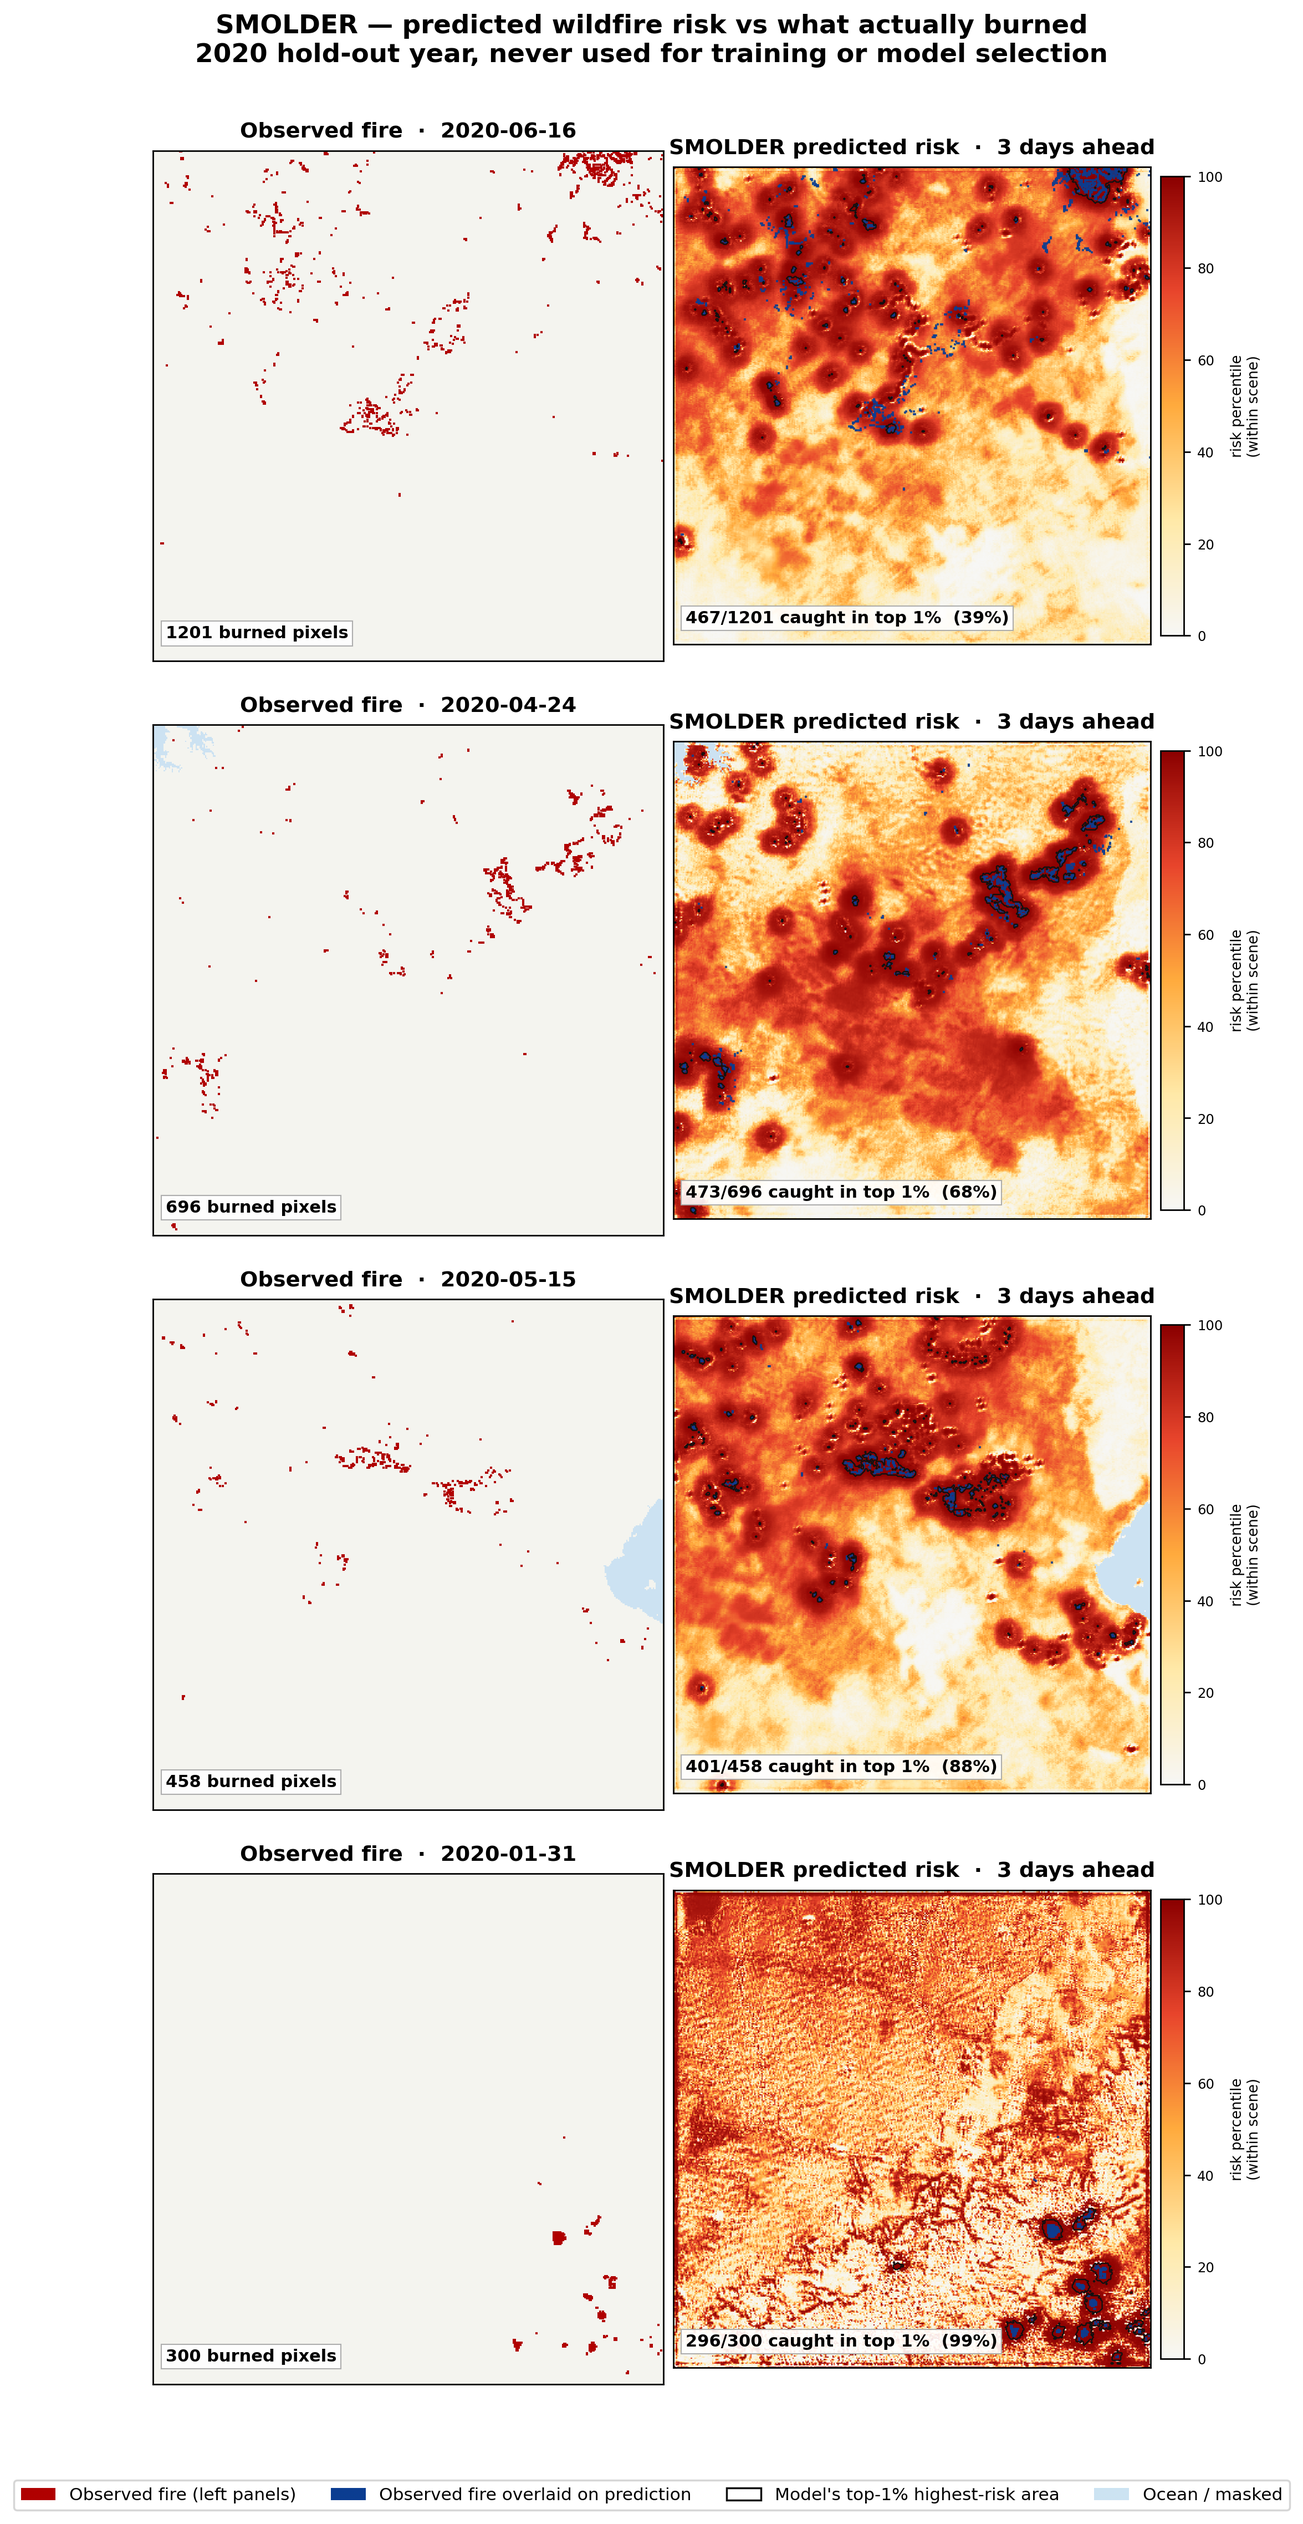
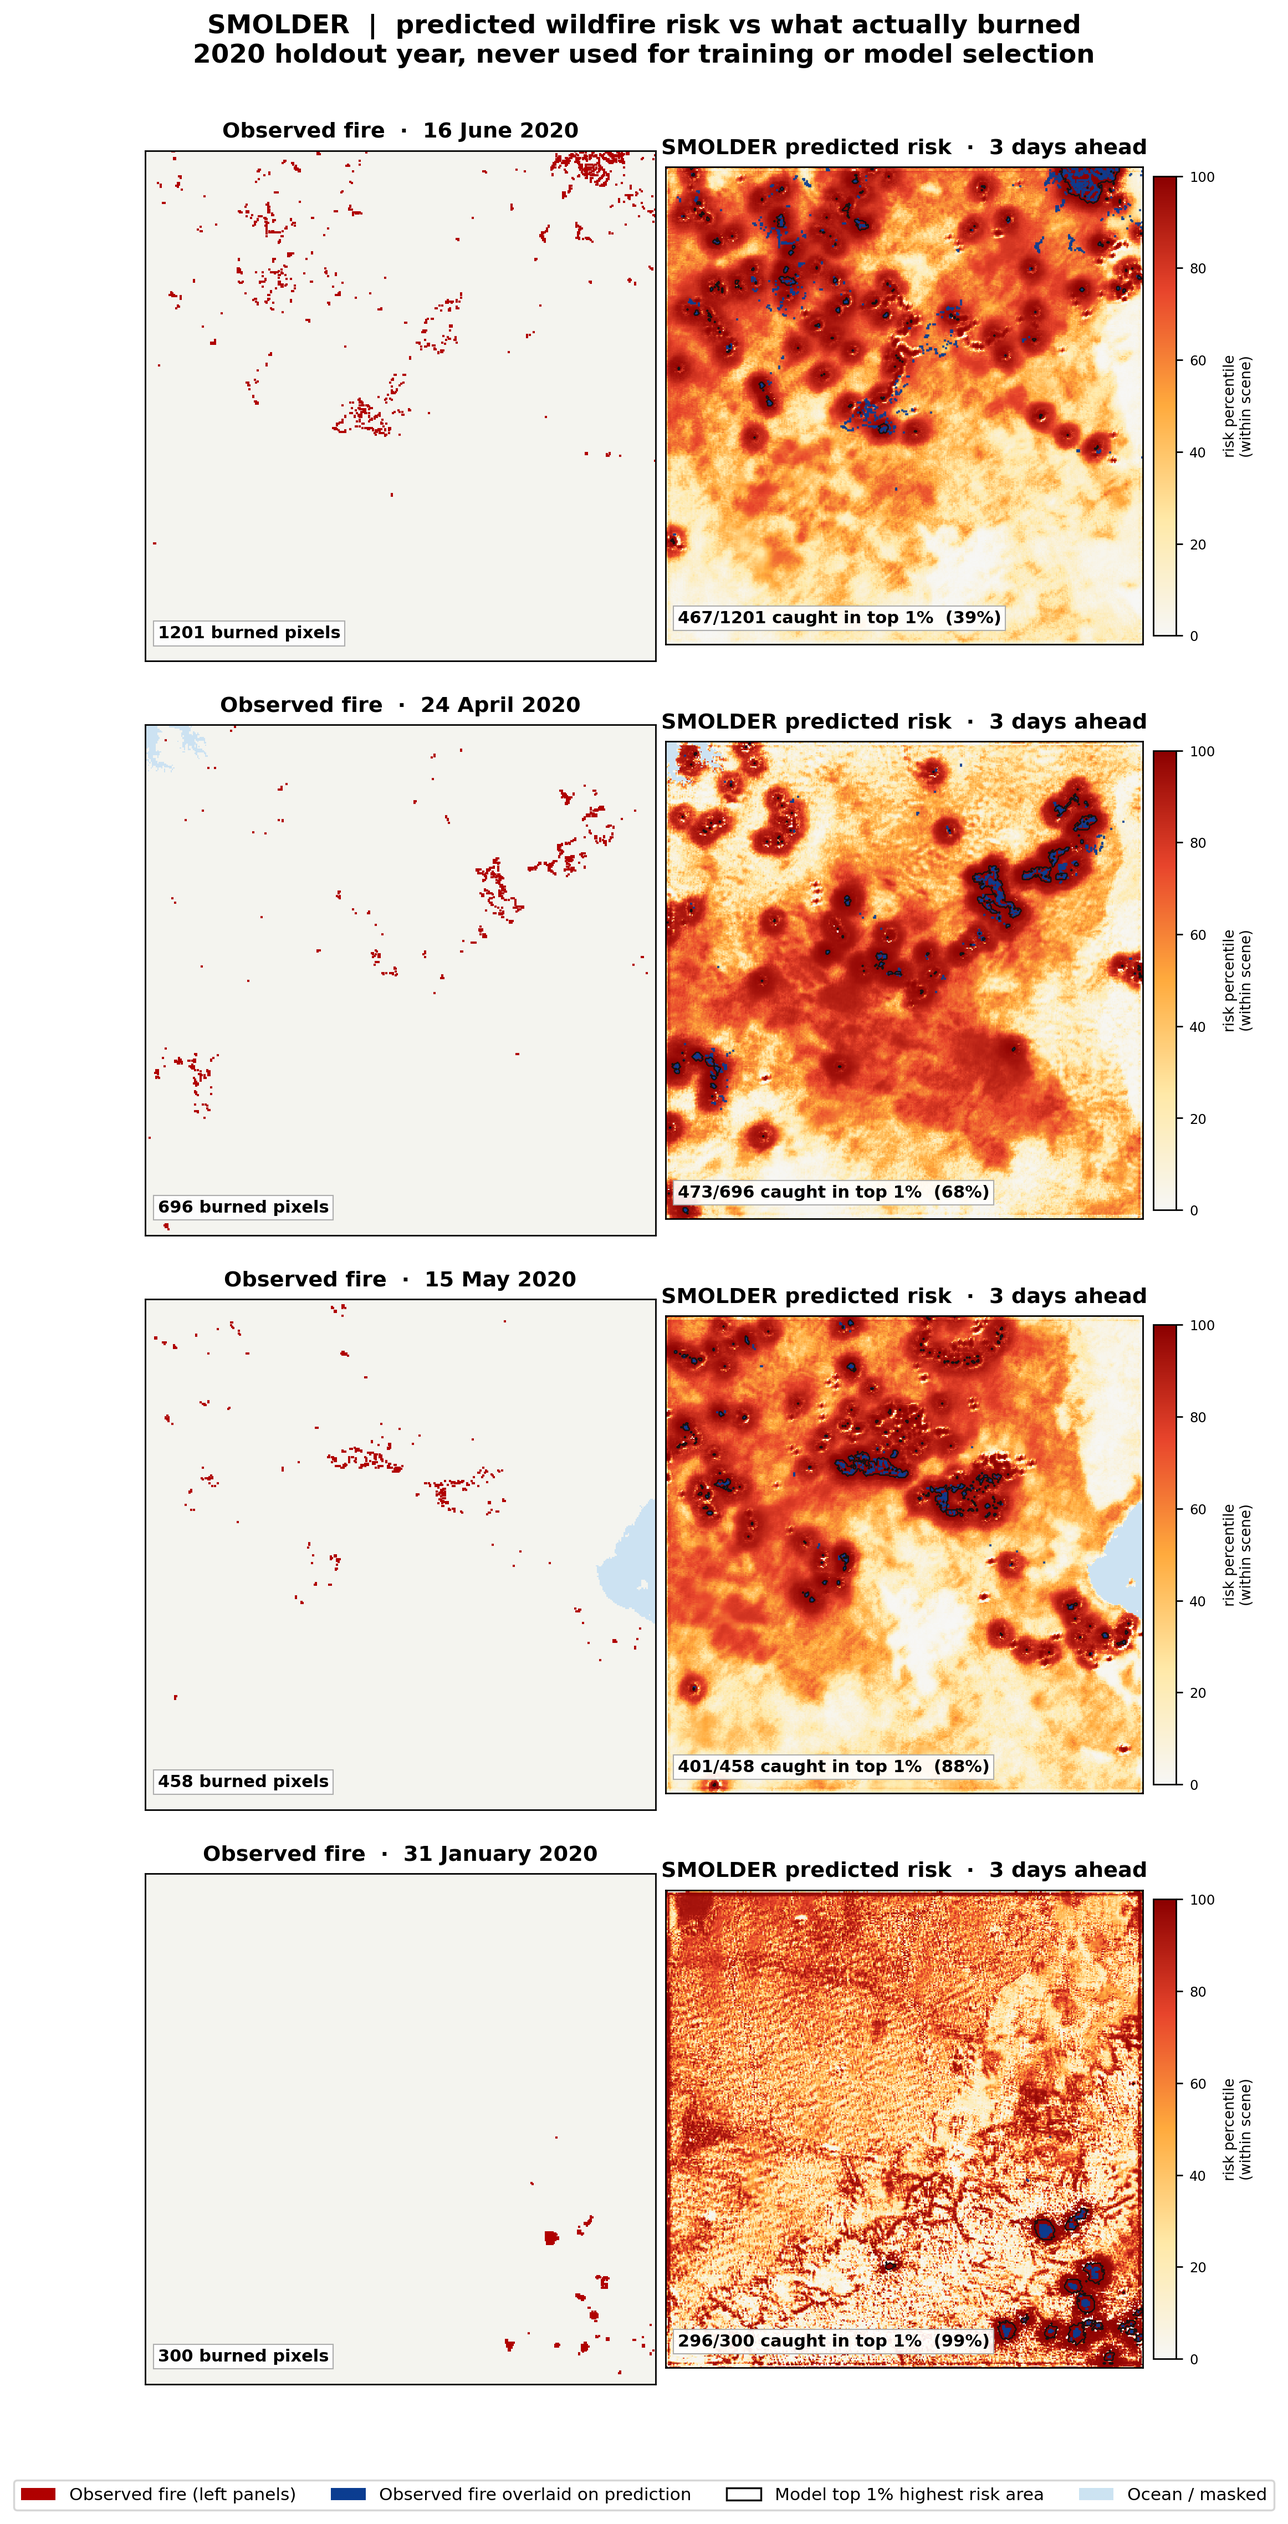
Replace progression chart with a direct model vs XGBoost comparison
- New headline figure: pooled AUC PR (0.4485 vs 0.0611, 7.3x) plus a capture
  vs alert budget curve, both on the same 1500 patches so the comparison is
  like for like.
- Removes the multi step progression chart, which told a development story
  rather than a result.
- All dash characters stripped from rendered figure text; dates now render as
  '16 June 2020' rather than an ISO string.
- Fixed three text collisions: a bracket crossing the XGBoost bar, a label
  sitting on its own reference line, and an annotation clipped outside the
  axes onto the x label.

diff --git a/figures/make_comparison_figure.py b/figures/make_comparison_figure.py
@@ -1,0 +1,78 @@
+"""SMOLDER vs XGBoost on next 3 day wildfire risk, 2020 hold out year.
+
+Both numbers are pooled over the same 1500 patches / 188.6M land pixels, so the
+comparison is like for like. The XGBoost baseline is not a strawman: it carries
+21 engineered features including every one that passed an independent feature
+gate (lightning climatology, terrain, fuel age, downwind alignment).
+
+No dash characters anywhere in the rendered text, and every label is placed
+clear of the plotted lines.
+"""
+import matplotlib
+matplotlib.use("Agg")
+import matplotlib.pyplot as plt
+import numpy as np
+
+SM = "#1a6faa"; XG = "#c94f4f"; INK = "#1a202c"
+
+# pooled 2020 hold out test, n=1500 patches, 188.6M land px, base rate 0.175%
+KS      = np.array([0.01, 0.1, 0.2, 0.5, 1.0, 2.0, 5.0, 10.0])
+TPR_ALL = np.array([0.101, 0.352, 0.430, 0.515, 0.567, 0.610, 0.660, 0.702])
+LIFT    = np.array([1006.0, 352.7, 214.7, 103.0, 56.7, 30.5, 13.2, 7.0])
+
+fig, (axA, axB) = plt.subplots(1, 2, figsize=(13.2, 5.3),
+                               gridspec_kw={"width_ratios": [0.72, 1]})
+
+# ---------------------------------------------------------------- panel A
+names = ["SMOLDER", "XGBoost\n(21 features)"]
+vals  = [0.4485, 0.0611]
+bars = axA.bar([0, 1], vals, color=[SM, XG], edgecolor="black", lw=0.8, width=0.55)
+for x, v in zip([0, 1], vals):
+    axA.text(x, v + 0.013, f"{v:.4f}", ha="center", fontsize=13, fontweight="bold")
+axA.set_xticks([0, 1]); axA.set_xticklabels(names, fontsize=11)
+axA.set_ylabel("Average Precision (AUC PR)", fontsize=11.5, fontweight="bold")
+axA.set_ylim(0, 0.62); axA.set_xlim(-0.6, 1.6)
+axA.grid(axis="y", alpha=0.25); axA.set_axisbelow(True)
+# Comparison bracket drawn ABOVE both bars so it crosses nothing. The base
+# rate line is omitted here: at 0.00175 on a 0 to 0.62 axis it is
+# indistinguishable from the axis and only invites overlap. It is stated in
+# the caption and drawn properly in panel B instead.
+axA.annotate("", xy=(0, 0.545), xytext=(1, 0.545),
+             arrowprops=dict(arrowstyle="<->", lw=1.7, color="#333"))
+axA.text(0.5, 0.562, "7.3x better", ha="center", va="bottom", fontsize=12.5,
+         fontweight="bold", color="#333")
+axA.set_title("Overall skill", fontsize=12, fontweight="bold", pad=9)
+
+# ---------------------------------------------------------------- panel B
+axB.plot(KS, 100 * TPR_ALL, "o-", color=SM, lw=2.4, ms=7, label="SMOLDER", zorder=5)
+axB.set_xscale("log")
+axB.set_xlabel("Share of the map flagged as high risk (%)", fontsize=11)
+axB.set_ylabel("Fire pixels captured (%)", fontsize=11.5, fontweight="bold")
+axB.set_ylim(0, 82); axB.set_xlim(0.008, 13)
+axB.grid(alpha=0.25, which="both"); axB.set_axisbelow(True)
+axB.set_xticks([0.01, 0.1, 1, 10]); axB.set_xticklabels(["0.01", "0.1", "1", "10"])
+
+# lift callouts placed BELOW the curve so they never sit on the line
+for k, t, l in ((0.5, 0.515, 103.0), (2.0, 0.610, 30.5), (10.0, 0.702, 7.0)):
+    axB.annotate(f"{l:.0f}x", xy=(k, 100 * t), xytext=(k, 100 * t - 13),
+                 fontsize=9.5, fontweight="bold", color=SM, ha="center",
+                 arrowprops=dict(arrowstyle="-", lw=0.9, color=SM, alpha=0.6))
+axB.text(0.055, 68, "labels show enrichment\nover the base rate",
+         fontsize=8.6, color=SM, style="italic", linespacing=1.4)
+
+axB.axhline(0.175, color="#555", ls=":", lw=1.4)
+axB.text(11.5, 2.6, "random", fontsize=8.6, color="#555", ha="right", style="italic")
+axB.set_title("How much fire is caught for a given alert budget",
+              fontsize=12, fontweight="bold", pad=9)
+axB.legend(fontsize=10, loc="upper left", frameon=True)
+
+fig.suptitle("Next 3 day wildfire risk over Australia   |   2020 hold out year, "
+             "never used for training or model selection",
+             fontsize=12.8, fontweight="bold", y=1.005)
+fig.text(0.5, -0.045,
+         "Pooled over 1500 patches and 188.6 million land pixels. Flagging just 0.5% of the map "
+         "captures 52% of all fire, a 103 fold enrichment over chance.",
+         ha="center", fontsize=9.3, color="#444", style="italic")
+fig.tight_layout()
+fig.savefig("fig_model_vs_xgboost.png", dpi=300, bbox_inches="tight", facecolor="white")
+print("wrote figures/fig_model_vs_xgboost.png")

diff --git a/figures/make_newfire_decay_figure.py b/figures/make_newfire_decay_figure.py
@@ -1,0 +1,77 @@
+"""New fire distance decay figure.
+
+Shows new fire lift as a function of how far a fire pixel must be from any
+recent fire to count as "new". This is the headline diagnostic: skill collapses
+with distance and falls below random beyond about 10 km, showing the model
+predicts near field spread rather than genuinely new ignition.
+
+Numbers are hardcoded from the evaluation logs (jobs 1765273 / 1766529) so the
+figure regenerates without a GPU or the data cubes.
+
+The model vs XGBoost comparison lives in make_comparison_figure.py.
+"""
+import matplotlib
+matplotlib.use("Agg")
+import matplotlib.pyplot as plt
+import numpy as np
+
+OUT_DIR = "figures"
+
+# ---------------------------------------------------------------- (b)
+radii = np.array([0, 1, 3, 5, 10, 20, 40])
+lift_3d = np.array([53.0, 33.0, 11.1, 3.4, 0.1, 0.1, 0.2])
+lift_30d = np.array([53.3, 34.1, 12.1, 3.7, 0.1, 0.2, 0.8])
+share_3d = np.array([59.7, 48.2, 35.7, 29.6, 20.9, 11.5, 4.8])
+share_30d = np.array([57.2, 42.6, 26.0, 18.3, 9.8, 3.9, 1.5])
+
+fig, (axA, axB) = plt.subplots(1, 2, figsize=(12.4, 4.9))
+
+spec_3d = np.array([14.63, 8.48, 2.63, 1.26, 0.60, 0.43, 1.55])
+axA.plot(radii, lift_3d, "o-", lw=2, ms=7, color="#1a6faa",
+         label="main model (with fire history)")
+axA.plot(radii, lift_30d, "s--", lw=1.4, ms=5, color="#4d9de0", alpha=0.8,
+         label="main model, 30 day window")
+axA.plot(radii, spec_3d, "^-", lw=2, ms=7, color="#e07a1a",
+         label="specialist (no fire history)")
+axA.axhline(1.0, color="#c94f4f", lw=1.5, ls=":")
+# Sits in the empty band under the left end of both curves, well clear of the
+# dotted line it labels (both curves are above 8x at this x range).
+axA.text(0.6, 1.55, "random (lift = 1)", color="#c94f4f", fontsize=8.8,
+         ha="left", va="bottom", fontweight="bold")
+axA.axvspan(10, 41, color="#c94f4f", alpha=0.07)
+# The shaded band plus the "random" line already carry this; an extra label
+# here only collided with the axis title.
+axA.annotate("specialist is 5x better\nin the far field", xy=(10, 0.60),
+             xytext=(11.5, 4.2), fontsize=8.5, fontweight="bold", color="#e07a1a",
+             arrowprops=dict(arrowstyle="->", lw=1.3, color="#e07a1a"))
+axA.annotate("current metric\n(r = 3 px)", xy=(3, 11.1), xytext=(5.4, 26),
+             fontsize=9, fontweight="bold",
+             arrowprops=dict(arrowstyle="->", lw=1.3, color="black"))
+axA.set_yscale("log")
+axA.set_xlabel("Minimum distance from any recent fire (px = km)", fontsize=10)
+axA.set_ylabel("New fire lift at top 0.5%", fontsize=10, fontweight="bold")
+axA.set_title("Skill collapses with distance, except for the specialist",
+              fontsize=11, fontweight="bold")
+axA.grid(alpha=0.25, which="both")
+axA.legend(fontsize=8, loc="lower left")
+
+axB.plot(radii, share_3d, "o-", lw=2, ms=7, color="#2a9d8f", label="3 day history window")
+axB.plot(radii, share_30d, "s--", lw=1.6, ms=6, color="#83c5be", label="30 day history window")
+axB.annotate("35.7%", xy=(3, 35.7), xytext=(6.2, 46), fontsize=9, fontweight="bold",
+             color="#2a9d8f", arrowprops=dict(arrowstyle="->", lw=1.2, color="#2a9d8f"))
+axB.annotate("3.9%", xy=(20, 3.9), xytext=(24, 15), fontsize=9, fontweight="bold",
+             color="#2a9d8f", arrowprops=dict(arrowstyle="->", lw=1.2, color="#2a9d8f"))
+axB.set_xlabel("Minimum distance from any recent fire (px = km)", fontsize=10)
+axB.set_ylabel("Fire pixels still counted as new (%)", fontsize=10, fontweight="bold")
+axB.set_title("89% of new fire is within 20 km of recent fire",
+              fontsize=11, fontweight="bold")
+axB.grid(alpha=0.25)
+axB.legend(fontsize=8.5)
+
+fig.suptitle("What the new fire metric actually measures  |  2020 holdout year, "
+             "600 patches, final model",
+             fontsize=12.5, fontweight="bold", y=1.015)
+fig.tight_layout()
+fig.savefig(f"{OUT_DIR}/fig_newfire_distance_decay.png", dpi=300,
+            bbox_inches="tight", facecolor="white")
+print(f"wrote {OUT_DIR}/fig_newfire_distance_decay.png")

diff --git a/figures/make_gt_vs_pred.py b/figures/make_gt_vs_pred.py
@@ -50,9 +50,18 @@ def main():
         land = b["mask"].numpy() > 0.5
         y = (b["y"][-1].numpy() > 0) & land
         n = int(y.sum())
-        tt = int(b["t_end"]); date = TIMES[tt] if tt < len(TIMES) else str(tt)
-        if n >= 250 and land.mean() > 0.65 and date[:7] not in seen:
-            seen.add(date[:7]); picks.append((n, date, b))
+        tt = int(b["t_end"]); iso = TIMES[tt] if tt < len(TIMES) else str(tt)
+        # Dedup on the ISO month BEFORE reformatting, so the four panels stay
+        # spread across the year. Display form is "16 June 2020" so that no
+        # dash characters appear anywhere in the rendered figure.
+        _M = ["January","February","March","April","May","June","July",
+              "August","September","October","November","December"]
+        try:
+            date = f"{int(iso[8:10])} {_M[int(iso[5:7])-1]} {iso[:4]}"
+        except Exception:
+            date = iso
+        if n >= 250 and land.mean() > 0.65 and iso[:7] not in seen:
+            seen.add(iso[:7]); picks.append((n, date, b))
         if len(picks) >= N_EX: break
     picks.sort(key=lambda t: -t[0])
     print("[info] dates:", [(p[1], p[0]) for p in picks], flush=True)
@@ -119,12 +128,12 @@ def main():
 
     handles = [Patch(facecolor="#b00000", label="Observed fire (left panels)"),
                Patch(facecolor="#0b3d91", label="Observed fire overlaid on prediction"),
-               Patch(facecolor="none", edgecolor="#111", label="Model's top-1% highest-risk area"),
+               Patch(facecolor="none", edgecolor="#111", label="Model top 1% highest risk area"),
                Patch(facecolor=(0.80, 0.89, 0.95), label="Ocean / masked")]
     fig.legend(handles=handles, loc="lower center", ncol=4, fontsize=9,
                frameon=True, bbox_to_anchor=(0.5, 0.004))
-    fig.suptitle("SMOLDER — predicted wildfire risk vs what actually burned\n"
-                 "2020 hold-out year, never used for training or model selection",
+    fig.suptitle("SMOLDER  |  predicted wildfire risk vs what actually burned\n"
+                 "2020 holdout year, never used for training or model selection",
                  fontsize=13.5, fontweight="bold", y=0.997)
     fig.subplots_adjust(bottom=0.055, top=0.945, hspace=0.10, wspace=0.02)
     fig.savefig(OUT, dpi=250, bbox_inches="tight", facecolor="white")

diff --git a/figures/make_smolder_architecture.py b/figures/make_smolder_architecture.py
@@ -43,7 +43,7 @@ ax.text(1.55, 7.95, "INPUT  ·  two timescales", fontsize=11.5, fontweight="bold
 
 cube_stack(0.45, 5.75, 5, 1.5, 1.05, SLOW)
 ax.text(1.55, 5.34, "SLOW branch", fontsize=11.5, fontweight="bold", color=SLOW, ha="center")
-ax.text(1.55, 4.97, "144 days  ·  8-day bins", fontsize=9.6, color=INK, ha="center")
+ax.text(1.55, 4.97, "144 days  ·  8 day bins", fontsize=9.6, color=INK, ha="center")
 ax.text(1.55, 4.62, "leaf area · soil moisture · rainfall", fontsize=8.8, color="#555", ha="center")
 ax.text(1.55, 4.02, "“how much fuel is there,\nand how dry is it?”", fontsize=9.4, color=SLOW,
         ha="center", style="italic", linespacing=1.5)
@@ -69,10 +69,10 @@ ax.text(5.55, 4.02, "each cell sees its neighbours\nAND remembers the past",
         fontsize=9.2, color="#555", ha="center", style="italic", linespacing=1.5)
 
 # ---------------------------------------------------------------- fusion
-ax.text(9.15, 7.95, "FUSE  ·  cross-attention", fontsize=11.5, fontweight="bold",
+ax.text(9.15, 7.95, "FUSE  ·  cross attention", fontsize=11.5, fontweight="bold",
         color=INK, ha="center")
 box(8.0, 3.62, 2.3, 1.5, "#faf5ff", FUSE, lw=2.4)
-ax.text(9.15, 4.72, "cross-attention", fontsize=11.5, fontweight="bold", color=FUSE, ha="center")
+ax.text(9.15, 4.72, "cross attention", fontsize=11.5, fontweight="bold", color=FUSE, ha="center")
 ax.text(9.15, 3.98, "today's weather asks:\n“which fuel signal\nmatters here?”", fontsize=8.9,
         color="#555", ha="center", linespacing=1.45)
 
@@ -108,7 +108,7 @@ ax.text(13.0, 2.06, "continental Australia · 3474 × 4110 grid", fontsize=8.6,
         color="#666", ha="center")
 
 ax.text(7.6, -0.62,
-        "SMOLDER — Slow-Memory Operator with Latent Dual-attention for Estimating fire Risk.  The branches are read at "
+        "SMOLDER  |  Slow Memory Operator with Latent Dual attention for Estimating fire Risk.  The branches are read at "
         "different rates because fuel dries over months while fire weather turns over hours.",
         fontsize=9.3, color="#444", ha="center", style="italic")
 

diff --git a/README.md b/README.md
@@ -35,9 +35,9 @@ All numbers are on the **2020 hold-out test year**, never used for training or
 model selection (2015-2018 train, 2019 validation). Pooled over 1500 patches /
 188.6 M land pixels, base fire rate **0.175 %**.
 
-Primary metrics are threshold-free. Distance-stratified skill is reported
-separately below, as a curve rather than a single number - see *Why we do not
-headline a "new-fire lift" figure*.
+Primary metrics are threshold free. Distance stratified skill is reported
+separately below, as a curve rather than a single number: see *Why we do not
+headline a new fire lift figure*.
 
 | Model | AUC-PR | ROC-AUC |
 |---|---|---|
@@ -53,7 +53,7 @@ headline a "new-fire lift" figure*.
 SMOLDER improves on the baseline by **+6.0 % AUC-PR** and outperforms a strong
 XGBoost baseline by roughly **7x**.
 
-![progression](figures/fig_model_progression.png)
+![model vs xgboost](figures/fig_model_vs_xgboost.png)
 
 ### Operating characteristics (final model)
 
